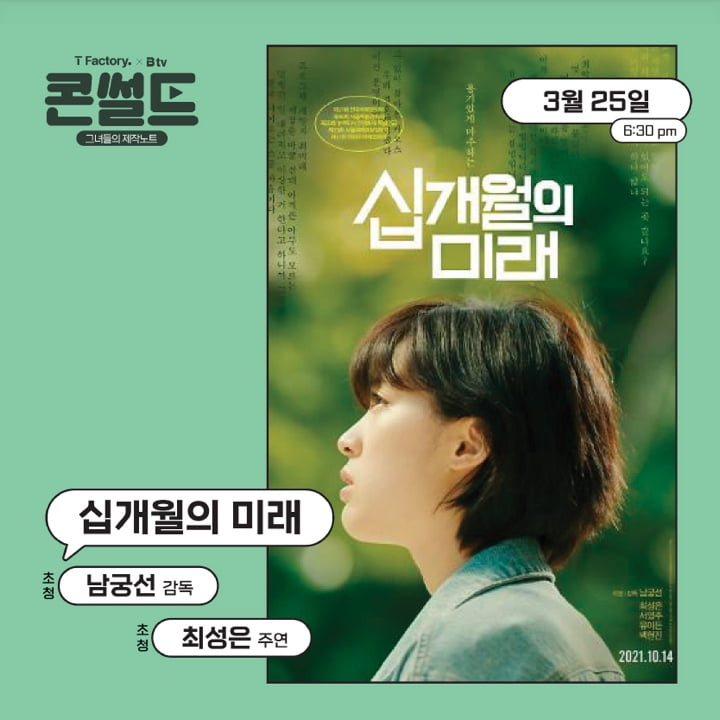
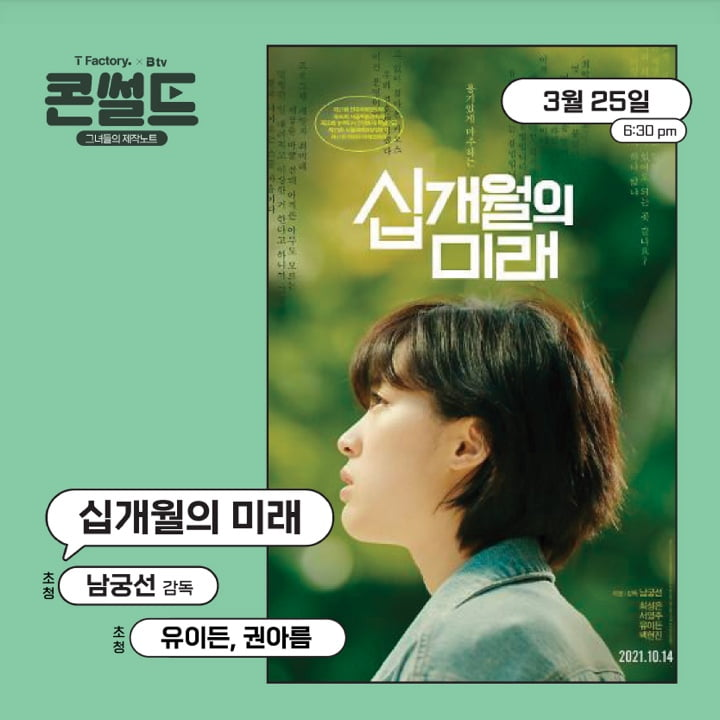
925 이미지 294~296 하단 배우명 변경

Changed region(s): [[0.1528, 0.8556, 0.4889, 0.9167]]

diff --git a/src/components/product/program/Program294.vue b/src/components/product/program/Program294.vue
@@ -101,7 +101,7 @@
 		          <div class="card" Style="margin-left: 19px;">
 			          <div class="text">
 				          <p class="name">십개월의 미래</p>
-				          <p class="time">감독: 남궁선<br />배우: 최성은, 백현진<br />PM 6:30</p>
+				          <p class="time">감독: 남궁선<br />배우: 유이든, 권아름<br />PM 6:30</p>
 			          </div>
 			          <div class="image">
 				          <img src="../../../assets/images/program/class293-musician2.png" alt="musician">

diff --git a/src/components/product/program/Program295.vue b/src/components/product/program/Program295.vue
@@ -99,7 +99,7 @@
 		          <div class="card" Style="margin-left: 19px;">
 			          <div class="text">
 				          <p class="name">십개월의 미래</p>
-				          <p class="time">감독: 남궁선<br />배우: 최성은, 백현진<br />PM 6:30</p>
+				          <p class="time">감독: 남궁선<br />배우: 유이든, 권아름<br />PM 6:30</p>
 			          </div>
 			          <div class="image">
 				          <img src="../../../assets/images/program/class293-musician2.png" alt="musician">

diff --git a/src/components/product/program/Program296.vue b/src/components/product/program/Program296.vue
@@ -97,7 +97,7 @@
 		          <div class="card" Style="margin-left: 19px;">
 			          <div class="text">
 				          <p class="name">십개월의 미래</p>
-				          <p class="time">감독: 남궁선<br />배우: 최성은, 백현진<br />PM 6:30</p>
+				          <p class="time">감독: 남궁선<br />배우: 유이든, 권아름<br />PM 6:30</p>
 			          </div>
 			          <div class="image">
 				          <img src="../../../assets/images/program/class293-musician2.png" alt="musician">
